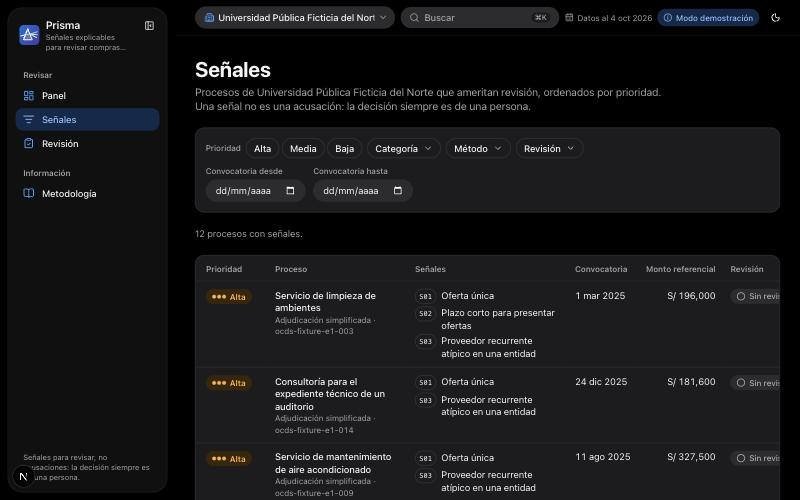
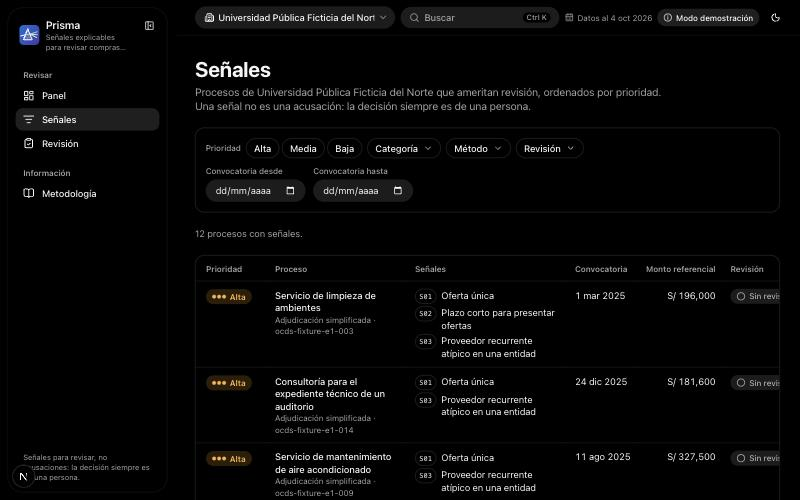
Pasa el modo oscuro de Prisma a negro total, sin azules
Fondo, tarjetas, barras y menús en #000000 separados por bordes finos.
En oscuro el acento es blanco y la selección un gris neutro; la prueba de
contraste sigue en verde.

diff --git a/web/src/app/globals.css b/web/src/app/globals.css
@@ -8,7 +8,8 @@
  * Tema Prisma (docs/diseno/sistema-de-diseno.md · ADR 0008). Dueño: Lote B.
  * Inspirado en las guías públicas de Apple (HIG), sin usar sus fuentes, símbolos ni recursos.
  *
- * - Color: un solo acento (--primary). Los demás colores tienen significado fijo.
+ * - Color: un solo acento (--primary; azul en claro, blanco en oscuro). Los demás colores tienen significado fijo.
+ * - Modo oscuro: negro total (#000000) en todas las superficies, sin azules.
  * - Prioridad: la asigna el sistema; ámbar y neutros, nunca rojo.
  * - Estado de revisión: lo decide una persona; el rojo solo existe en "requiere atención" (ADR 0007).
  * - src/app/theme-contrast.test.ts lee los hexadecimales de :root y .dark y exige 4,5:1 en texto,
@@ -209,57 +210,59 @@
 }
 
 .dark {
+  /* Modo oscuro negro total: todas las superficies son #000000 y se separan con bordes finos. Sin azules:
+     el acento es blanco y la selección, un gris neutro. */
   --background: #000000;
   --foreground: #f5f5f7;
-  --card: #1c1c1e;
+  --card: #000000;
   --card-foreground: #f5f5f7;
-  --popover: #2c2c2e;
+  --popover: #000000;
   --popover-foreground: #f5f5f7;
-  --primary: #409cff;
+  --primary: #ffffff;
   --primary-foreground: #000000;
-  --secondary: #2c2c2e;
+  --secondary: #1c1c1c;
   --secondary-foreground: #f5f5f7;
-  --muted: #2c2c2e;
+  --muted: #141414;
   --muted-foreground: #a1a1a6;
-  --accent: #0f2a4a;
-  --accent-foreground: #8cc2ff;
+  --accent: #1f1f1f;
+  --accent-foreground: #ffffff;
   --destructive: #ff6961;
-  --border: #38383a;
-  --separador: #2e2e30;
+  --border: #2c2c2c;
+  --separador: #1f1f1f;
   --borde-contraste: #8e8e93;
-  --input: #48484a;
-  --segmento: #636366;
-  --ring: #409cff;
-  --chart-1: #409cff;
-  --chart-2: #7d7aff;
+  --input: #3a3a3a;
+  --segmento: #3a3a3c;
+  --ring: #ffffff;
+  --chart-1: #f5f5f7;
+  --chart-2: #a1a1a6;
   --chart-3: #ff9f0a;
-  --chart-4: #98989d;
-  --chart-5: #40c8e0;
-  --sidebar: #161618;
+  --chart-4: #636366;
+  --chart-5: #d1d1d6;
+  --sidebar: #000000;
   --sidebar-foreground: #f5f5f7;
-  --sidebar-primary: #409cff;
+  --sidebar-primary: #ffffff;
   --sidebar-primary-foreground: #000000;
-  --sidebar-accent: #0f2a4a;
-  --sidebar-accent-foreground: #8cc2ff;
-  --sidebar-border: #38383a;
-  --sidebar-ring: #409cff;
-  --prioridad-alta: #3a2508;
+  --sidebar-accent: #1f1f1f;
+  --sidebar-accent-foreground: #ffffff;
+  --sidebar-border: #2c2c2c;
+  --sidebar-ring: #ffffff;
+  --prioridad-alta: #2e1d06;
   --prioridad-alta-foreground: #ffb340;
-  --prioridad-media: #33290a;
+  --prioridad-media: #2a2208;
   --prioridad-media-foreground: #ffd60a;
-  --prioridad-baja: #2c2c2e;
+  --prioridad-baja: #1c1c1c;
   --prioridad-baja-foreground: #aeaeb2;
-  --estado-sin-revisar: #2c2c2e;
+  --estado-sin-revisar: #1c1c1c;
   --estado-sin-revisar-foreground: #aeaeb2;
-  --estado-en-revision: #0f2a4a;
-  --estado-en-revision-foreground: #8cc2ff;
-  --estado-justificada: #0e2e19;
+  --estado-en-revision: #1c1c1c;
+  --estado-en-revision-foreground: #ffffff;
+  --estado-justificada: #0b2414;
   --estado-justificada-foreground: #4cd964;
-  --estado-requiere-atencion: #3b1214;
+  --estado-requiere-atencion: #2e0e10;
   --estado-requiere-atencion-foreground: #ff6961;
   --sombra-tarjeta: none;
-  --sombra-material: 0 8px 32px rgb(0 0 0 / 0.4);
-  --velo: rgb(0 0 0 / 0.5);
+  --sombra-material: 0 8px 32px rgb(0 0 0 / 0.6);
+  --velo: rgb(0 0 0 / 0.6);
 }
 
 /* Aumentar el contraste: texto secundario y bordes más marcados (HIG · Color y Accesibilidad). */
@@ -272,7 +275,7 @@
   html.dark {
     --muted-foreground: #d1d1d6;
     --border: #8e8e93;
-    --separador: #636366;
+    --separador: #48484a;
   }
 }
 

diff --git a/web/src/components/ui/card.tsx b/web/src/components/ui/card.tsx
@@ -16,7 +16,7 @@ function Card({
       data-slot="card"
       data-size={size}
       className={cn(
-        "group/card flex flex-col gap-(--card-spacing) overflow-hidden rounded-tarjeta bg-card py-(--card-spacing) text-sm text-card-foreground shadow-tarjeta [--card-spacing:--spacing(5)] contrast-more:ring-1 contrast-more:ring-borde-contraste has-data-[slot=card-footer]:pb-0 has-[>img:first-child]:pt-0 data-[size=sm]:[--card-spacing:--spacing(4)] data-[size=sm]:has-data-[slot=card-footer]:pb-0 *:[img:first-child]:rounded-t-tarjeta *:[img:last-child]:rounded-b-tarjeta",
+        "group/card flex flex-col gap-(--card-spacing) overflow-hidden rounded-tarjeta bg-card py-(--card-spacing) text-sm text-card-foreground shadow-tarjeta [--card-spacing:--spacing(5)] dark:ring-1 dark:ring-border contrast-more:ring-1 contrast-more:ring-borde-contraste has-data-[slot=card-footer]:pb-0 has-[>img:first-child]:pt-0 data-[size=sm]:[--card-spacing:--spacing(4)] data-[size=sm]:has-data-[slot=card-footer]:pb-0 *:[img:first-child]:rounded-t-tarjeta *:[img:last-child]:rounded-b-tarjeta",
         className
       )}
       {...props}

diff --git a/docs/diseno/sistema-de-diseno.md b/docs/diseno/sistema-de-diseno.md
@@ -27,8 +27,9 @@ Queremos una interfaz **bonita, sobria y confiable**: que se vea como una herram
 
 Los tokens se definen en `web/src/app/globals.css` (`:root` y `.dark`) y se usan con sus clases de Tailwind (`bg-card`, `text-muted-foreground`, `bg-prioridad-alta`…). **Nunca se escriben colores sueltos en un componente.** La prueba `web/src/app/theme-contrast.test.ts` manda: exige 4,5:1 en cada par de texto y fondo, 3:1 en el anillo de foco y en las series de los gráficos, y que solo "requiere atención" sea rojo. Si cambias o agregas un token con texto, agrega su par a la prueba.
 
-- **Un solo acento** (`--primary`) para acciones principales, enlaces y selección. Los demás colores tienen significado: prioridad, estado o una serie de un gráfico.
-- **Profundidad:** en claro, la separación viene del fondo gris con tarjetas blancas y sombras mínimas; en oscuro, de grises cada vez más claros y sin sombra.
+- **Modo oscuro negro total:** el fondo, las tarjetas, las barras y los menús son `#000000` y se separan con bordes finos. No hay fondos azules ni acento azul: en oscuro el acento es blanco y la selección es un gris neutro.
+- **Un solo acento** (`--primary`: azul en claro, blanco en oscuro) para acciones principales, enlaces y selección. Los demás colores tienen significado: prioridad, estado o una serie de un gráfico.
+- **Profundidad:** en claro, la separación viene del fondo gris con tarjetas blancas y sombras mínimas; en oscuro, de bordes finos sobre negro, sin sombra.
 - **Aumentar contraste** (`prefers-contrast: more`): el texto secundario y los bordes se oscurecen (o aclaran, en oscuro) y las tarjetas y barras ganan un borde visible.
 
 ### Base
@@ -36,35 +37,35 @@ Los tokens se definen en `web/src/app/globals.css` (`:root` y `.dark`) y se usan
 | Token | Claro | Oscuro | Uso |
 |---|---|---|---|
 | `--background` | `#F2F2F7` | `#000000` | Fondo de la página (fondo agrupado) |
-| `--card` / `--card-foreground` | `#FFFFFF` / `#1D1D1F` | `#1C1C1E` / `#F5F5F7` | Superficies del contenido |
-| `--popover` | `#FFFFFF` | `#2C2C2E` | Base sólida de menús, hojas y diálogos |
+| `--card` / `--card-foreground` | `#FFFFFF` / `#1D1D1F` | `#000000` / `#F5F5F7` | Superficies del contenido |
+| `--popover` | `#FFFFFF` | `#000000` | Base sólida de menús, hojas y diálogos |
 | `--foreground` | `#1D1D1F` | `#F5F5F7` | Texto principal |
 | `--muted-foreground` | `#636366` | `#A1A1A6` | Texto secundario |
-| `--primary` / `--primary-foreground` | `#0066CC` / `#FFFFFF` | `#409CFF` / `#000000` | Acento: botón prominente, enlaces, selección |
-| `--secondary` | `#E5E5EA` | `#2C2C2E` | Relleno de controles (campos, botones neutros, control segmentado) |
-| `--accent` / `--accent-foreground` | `#E5EFFA` / `#0058B0` | `#0F2A4A` / `#8CC2FF` | Tinte de acento: ítem activo, botón `tinted`, insignias |
-| `--sidebar` | `#F7F7FA` | `#161618` | Base sólida del vidrio de las barras |
-| `--segmento` | `#FFFFFF` | `#636366` | Segmento activo del control segmentado |
-| `--border` / `--separador` | `#D8D8DC` / `#E3E3E8` | `#38383A` / `#2E2E30` | Bordes finos y separadores de listas |
-| `--ring` | `#0071E3` | `#409CFF` | Anillo de foco |
-| `--chart-1` … `--chart-5` | azul, índigo, naranja oscuro, gris y verde azulado | sus variantes claras | Series de los gráficos (sin rojo ni el naranja `#FF9500`) |
+| `--primary` / `--primary-foreground` | `#0066CC` / `#FFFFFF` | `#FFFFFF` / `#000000` | Acento: botón prominente, enlaces, selección |
+| `--secondary` | `#E5E5EA` | `#1C1C1C` | Relleno de controles (campos, botones neutros, control segmentado) |
+| `--accent` / `--accent-foreground` | `#E5EFFA` / `#0058B0` | `#1F1F1F` / `#FFFFFF` | Tinte de acento: ítem activo, botón `tinted`, insignias |
+| `--sidebar` | `#F7F7FA` | `#000000` | Base sólida del vidrio de las barras |
+| `--segmento` | `#FFFFFF` | `#3A3A3C` | Segmento activo del control segmentado |
+| `--border` / `--separador` | `#D8D8DC` / `#E3E3E8` | `#2C2C2C` / `#1F1F1F` | Bordes finos y separadores de listas |
+| `--ring` | `#0071E3` | `#FFFFFF` | Anillo de foco |
+| `--chart-1` … `--chart-5` | azul, índigo, naranja oscuro, gris y verde azulado | blanco, grises y naranja | Series de los gráficos (sin rojo ni el naranja `#FF9500`) |
 
 ### Prioridad de las señales (las asigna el sistema)
 
 | Nivel | Texto | Fondo | Indicador | Uso |
 |---|---|---|---|---|
-| Alta | `#9A4500` / `#FFB340` | `#FFF0D9` / `#3A2508` | ●●● | 5 puntos o más |
-| Media | `#765300` / `#FFD60A` | `#FFF8DB` / `#33290A` | ●●○ | 3 o 4 puntos |
-| Baja | `#55555A` / `#AEAEB2` | `#EEEEF2` / `#2C2C2E` | ●○○ | 1 o 2 puntos |
+| Alta | `#9A4500` / `#FFB340` | `#FFF0D9` / `#2E1D06` | ●●● | 5 puntos o más |
+| Media | `#765300` / `#FFD60A` | `#FFF8DB` / `#2A2208` | ●●○ | 3 o 4 puntos |
+| Baja | `#55555A` / `#AEAEB2` | `#EEEEF2` / `#1C1C1C` | ●○○ | 1 o 2 puntos |
 
 ### Estado de la revisión (lo decide una persona)
 
 | Estado | Texto (claro / oscuro) | Fondo (claro / oscuro) | Ícono |
 |---|---|---|---|
-| Sin revisar | `#55555A` / `#AEAEB2` | `#EEEEF2` / `#2C2C2E` | Círculo vacío |
-| En revisión | `#0058B0` / `#8CC2FF` | `#E5EFFA` / `#0F2A4A` | Reloj |
-| Justificada | `#1A7333` / `#4CD964` | `#E4F5E9` / `#0E2E19` | Check |
-| Requiere atención | `#C1121C` / `#FF6961` | `#FDECEC` / `#3B1214` | Bandera |
+| Sin revisar | `#55555A` / `#AEAEB2` | `#EEEEF2` / `#1C1C1C` | Círculo vacío |
+| En revisión | `#0058B0` / `#FFFFFF` | `#E5EFFA` / `#1C1C1C` | Reloj |
+| Justificada | `#1A7333` / `#4CD964` | `#E4F5E9` / `#0B2414` | Check |
+| Requiere atención | `#C1121C` / `#FF6961` | `#FDECEC` / `#2E0E10` | Bandera |
 
 ## Tipografía
 
@@ -149,7 +150,7 @@ shadcn/ui sigue siendo la base ([ADR 0005](../adr/0005-web-nextjs-shadcn.md)); c
 | Componente | Cómo se ve |
 |---|---|
 | `Button` | Cápsula. `default` = **prominente** (fondo de acento; uno por vista), `tinted` = tinte de acento, `secondary` = neutro con relleno gris, `outline` = neutro con borde fino, `plain` = solo texto de acento ("Limpiar filtros"), `ghost` = íconos de barra, `destructive` = solo para "requiere atención" |
-| `Card` | Superficie sólida, radio de 20 px, sin borde y con sombra mínima. `CardTitle` usa Título 3. Para pares etiqueta–valor, lista con separadores finos (`border-separador`) |
+| `Card` | Superficie sólida, radio de 20 px, sin borde y con sombra mínima en claro; en oscuro, negra con un borde fino. `CardTitle` usa Título 3. Para pares etiqueta–valor, lista con separadores finos (`border-separador`) |
 | `Badge` | Cápsula pequeña con tinte (por defecto, el de acento) |
 | `Input`, `Textarea` | Relleno gris del sistema; el campo es una cápsula |
 | `Select` | Botón emergente en cápsula con el valor y un chevron; el menú en vidrio |

diff --git a/openspec/changes/lote-b-rediseno-prisma/design.md b/openspec/changes/lote-b-rediseno-prisma/design.md
@@ -34,7 +34,7 @@ Se reemplazan los valores con la tabla de la sección 3 del encargo. Los tokens 
 - *Alternativa:* variantes de Tailwind por separado (`supports-*`, `contrast-more:`). Se descarta porque obliga a repetirlas en cada componente y Tailwind 4 no trae variante para reducir la transparencia.
 
 ### 4. Radios, sombras y movimiento como tokens de `@theme`
-`--radius-tarjeta` (20 px), `--radius-barra` (24 px), `--radius-item` (12 px), `--radius-menu` (14 px), `--radius-hoja` (28 px) y `rounded-full` para cápsulas. `--shadow-tarjeta` mínima en claro y `none` en oscuro (la elevación en oscuro viene de grises más claros). `--ease-prisma: cubic-bezier(0.32, 0.72, 0, 1)` y duraciones de 150 a 250 ms. Con `prefers-reduced-motion: reduce`, una regla global pone en neutro las variables de `tw-animate-css` (`--tw-enter-scale`, `--tw-enter-translate-*` y las de salida) con `!important`, de modo que solo queda el fundido, y la escala al presionar va con `motion-safe:`.
+`--radius-tarjeta` (20 px), `--radius-barra` (24 px), `--radius-item` (12 px), `--radius-menu` (14 px), `--radius-hoja` (28 px) y `rounded-full` para cápsulas. `--shadow-tarjeta` mínima en claro y `none` en oscuro. **El modo oscuro es negro total** (pedido de Joaquín, 14 nov): fondo, tarjetas, barras y menús en `#000000`, separados por bordes finos; sin fondos ni acentos azules (el acento en oscuro es blanco y la selección, gris neutro). `--ease-prisma: cubic-bezier(0.32, 0.72, 0, 1)` y duraciones de 150 a 250 ms. Con `prefers-reduced-motion: reduce`, una regla global pone en neutro las variables de `tw-animate-css` (`--tw-enter-scale`, `--tw-enter-translate-*` y las de salida) con `!important`, de modo que solo queda el fundido, y la escala al presionar va con `motion-safe:`.
 
 ### 5. Componentes de shadcn/ui: se edita su apariencia, no su API
 Se cambian solo las clases de `button`, `card`, `badge`, `input`, `select`, `dialog`, `sheet`, `command`, `table`, `tooltip`, `skeleton`, `popover`, `dropdown-menu`, `checkbox` y `textarea`. Las variantes existentes se conservan y se reinterpretan: `default` = prominente, `secondary` = neutro, `ghost` = plano, `outline` = neutro con borde fino; se agrega `tinted` (acento al 12 %). Se agrega `tabs.tsx` (Radix Tabs con aspecto de control segmentado), que necesita el Lote D para Revisión.
